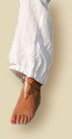
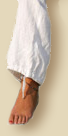
réglage des ombres refs #2283

diff --git a/gdwdoc/skin/skins/gdwdoc_skin_templates/index.html b/gdwdoc/skin/skins/gdwdoc_skin_templates/index.html
@@ -50,7 +50,7 @@
                 <img name="bandeau_sup.png"
                      src="bandeau_sup.png"
                      width="662"
-                     height="172"
+                     height="173"
                      border="0"
                      id="header"
                      alt="" />

diff --git a/gdwdoc/skin/skins/gdwdoc_skin_styles/gdwdoc.css b/gdwdoc/skin/skins/gdwdoc_skin_styles/gdwdoc.css
@@ -191,7 +191,7 @@ padding-left: 14px;
 padding-right: 7px;
 background-image:url(bandeau_sup_jambe.png);
 background-repeat:no-repeat;
-background-position:479px top;
+background-position:482px 0px;
 }
 
 #texte p{
